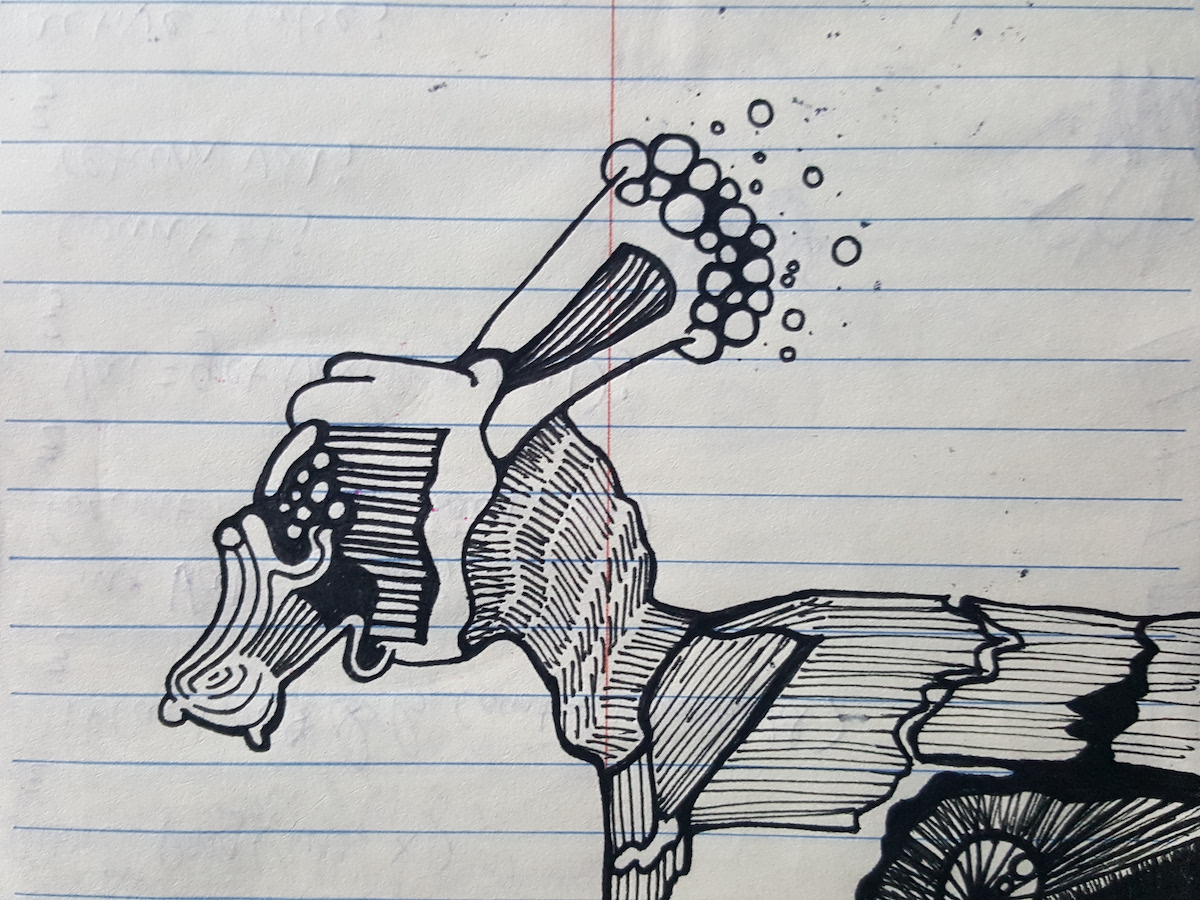
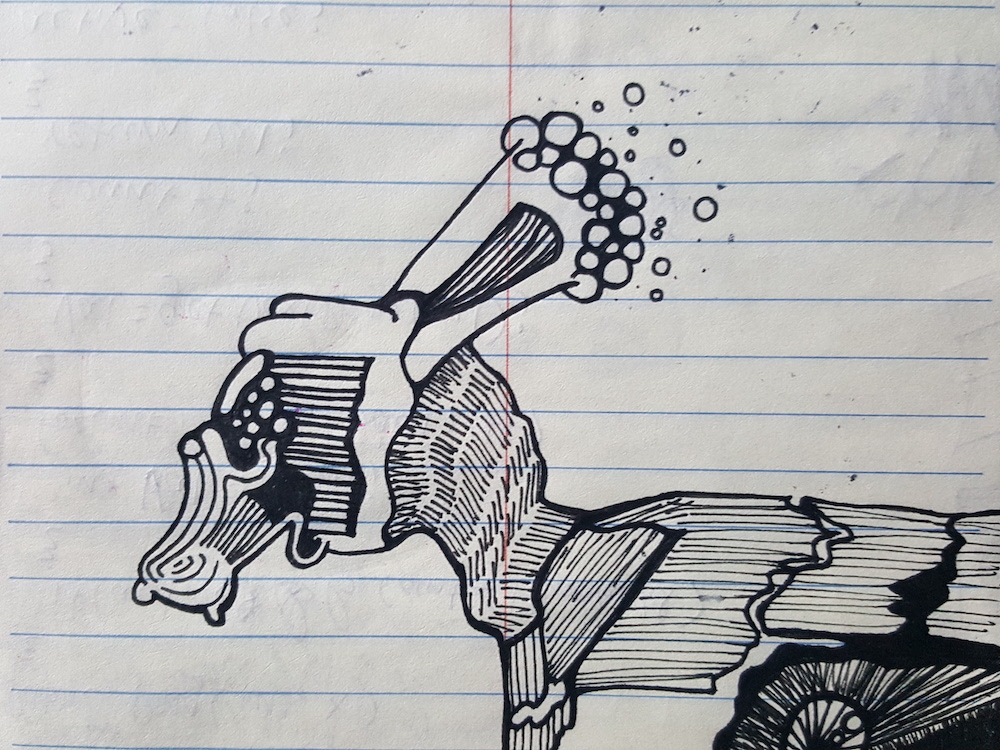
resized images for performance

diff --git a/src/data/ProjectData.js b/src/data/ProjectData.js
@@ -1,8 +1,10 @@
 //import Images
-import RecipeSearchEngine from '../img/project-img/recipe-search-engine.png';
-import StayStoked from '../img/project-img/stayStoked.jpg';
-import SmartPizza from '../img/project-img/smartPizza.jpg';
-import Waves from '../img/project-img/waves.png';
+import RecipeSearchEngine from '../img/project-img/recipe-search-engine.WebP';
+import StayStoked from '../img/project-img/stayStoked.WebP';
+import SmartPizza from '../img/project-img/smartpizza.WebP';
+import Waves from '../img/project-img/waves.WebP';
+//uuidv4
+import { v4 as uuidv4 } from 'uuid';
 
 function projectData() {
   return [
@@ -12,6 +14,11 @@ function projectData() {
       text:
         'Not sure to cook with what you have in your fridge? Look up an ingredient and see what you can make with it!',
       technologies: ['React.js', 'Edmame API', 'Sass'],
+      hasGithub: true,
+      github: 'https://github.com/NikStires/RecipeSearchEngine',
+      hasLink: false,
+      link: '',
+      id: uuidv4(),
     },
     {
       name: 'Stay Stoked',
@@ -19,6 +26,11 @@ function projectData() {
       text:
         'Keep the fire burning to ward away evil spirits in this game jam submission for Ludem Dare 46, created in 48 hours.',
       technologies: ['C#', 'Unity', 'Aesprite'],
+      hasGithub: true,
+      github: 'https://github.com/NikStires/StayStoked',
+      hasLink: false,
+      link: '',
+      id: uuidv4(),
     },
     {
       name: 'Smart Pizza menu website',
@@ -26,6 +38,11 @@ function projectData() {
       text:
         'Website created for local business where I worked closely with the owner of the resturant to achieve a design and function that suited their needs.',
       technologies: ['Html5', 'Sass', 'Javascript'],
+      hasGithub: false,
+      github: null,
+      hasLink: true,
+      link: 'https://www.smartpizzamenu.com/',
+      id: uuidv4(),
     },
     {
       name: 'Waves Music Player',
@@ -33,6 +50,11 @@ function projectData() {
       text:
         'A lightweight, responsive and scalable lofi-hiphop streaming website.',
       technologies: ['React.js', 'Sass'],
+      hasGithub: true,
+      github: 'https://github.com/NikStires/Waves',
+      hasLink: false,
+      link: '',
+      id: uuidv4(),
     },
   ];
 }

diff --git a/src/components/ArtGallery.js b/src/components/ArtGallery.js
@@ -1,21 +1,21 @@
 import React from 'react';
 import ArtPiece from './ArtPiece';
 //Images
-import Bridge from '../img/art/bridge.jpg';
-import Drawing1 from '../img/art/drawing1.jpg';
-import Drawing2 from '../img/art/drawing2.jpg';
-import Drawing3 from '../img/art/drawing3.jpg';
-import Drawing4 from '../img/art/drawing4.jpg';
-import Drawing5 from '../img/art/drawing5.jpg';
-import Drawing6 from '../img/art/drawing6.jpg';
-import Drawing7 from '../img/art/drawing7.jpg';
-import Drawing8 from '../img/art/drawing8.jpg';
-import Drawing9 from '../img/art/drawing9.jpg';
-import Drawing10 from '../img/art/drawing10.jpg';
-import Drawing11 from '../img/art/drawing11.jpg';
-import Drawing12 from '../img/art/drawing12.jpg';
-import Monkey from '../img/art/monkey.jpg';
-import Rainbow from '../img/art/rainbow.jpg';
+import Bridge from '../img/art/bridge.webp';
+import Drawing1 from '../img/art/drawing1.webp';
+import Drawing2 from '../img/art/drawing2.webp';
+import Drawing3 from '../img/art/drawing3.webp';
+import Drawing4 from '../img/art/drawing4.webp';
+import Drawing5 from '../img/art/drawing5.webp';
+import Drawing6 from '../img/art/drawing6.webp';
+import Drawing7 from '../img/art/drawing7.webp';
+import Drawing8 from '../img/art/drawing8.webp';
+import Drawing9 from '../img/art/drawing9.webp';
+import Drawing10 from '../img/art/drawing10.webp';
+import Drawing11 from '../img/art/drawing11.webp';
+import Drawing12 from '../img/art/drawing12.webp';
+import Monkey from '../img/art/monkey.webp';
+import Rainbow from '../img/art/rainbow.webp';
 
 const ArtGallery = () => {
   return (

diff --git a/src/components/ProjectRight.js b/src/components/ProjectRight.js
@@ -1,23 +1,53 @@
 import React from 'react';
+//icons
+import { FontAwesomeIcon } from '@fortawesome/react-fontawesome';
+import { faGithub } from '@fortawesome/free-brands-svg-icons';
+import { faExternalLinkAlt } from '@fortawesome/free-solid-svg-icons';
+//animation
 import AOS from 'aos';
 import 'aos/dist/aos.css';
 
-const ProjectRight = ({ name, image, text, technologies }) => {
+const ProjectRight = ({
+  name,
+  image,
+  text,
+  technologies,
+  hasGithub,
+  github,
+  hasLink,
+  link,
+}) => {
   AOS.init();
 
   return (
     <div data-aos='fade-left' className='project-container'>
       <div className='project-info'>
         <h1>{name}</h1>
-        <p>{text}</p>
+        <p>
+          {text}
+          {hasGithub ? (
+            <a href={github} target='_blank' rel='noreferrer'>
+              <FontAwesomeIcon href={link} icon={faGithub} color='#19d3da' />
+            </a>
+          ) : (
+            ''
+          )}
+          {hasLink ? (
+            <a href={link} target='_blank' rel='noreferrer'>
+              <FontAwesomeIcon icon={faExternalLinkAlt} color='#19d3da' />
+            </a>
+          ) : (
+            ''
+          )}
+        </p>
         <hr />
         <div className='tech'>
-          {technologies.map((technology) => (
-            <h3>{technology}</h3>
+          {technologies.map((technology, index) => (
+            <h3 key={index}>{technology}</h3>
           ))}
         </div>
       </div>
-      <img src={image} />
+      <img src={image} alt={name} />
     </div>
   );
 };

diff --git a/src/components/ProjectLeft.js b/src/components/ProjectLeft.js
@@ -1,20 +1,49 @@
 import React from 'react';
+//icons
+import { FontAwesomeIcon } from '@fortawesome/react-fontawesome';
+import { faGithub } from '@fortawesome/free-brands-svg-icons';
+import { faExternalLinkAlt } from '@fortawesome/free-solid-svg-icons';
+//animation
 import AOS from 'aos';
 import 'aos/dist/aos.css';
 
-const ProjectLeft = ({ name, image, text, technologies }) => {
+const ProjectLeft = ({
+  name,
+  image,
+  text,
+  technologies,
+  hasGithub,
+  github,
+  hasLink,
+  link,
+}) => {
   AOS.init();
-
   return (
     <div data-aos='fade-right' className='project-container'>
-      <img src={image} />
+      <img src={image} alt={name} />
       <div className='project-info'>
         <h1>{name}</h1>
-        <p>{text}</p>
+        <p>
+          {text}
+          {hasGithub ? (
+            <a href={github} target='_blank' rel='noreferrer'>
+              <FontAwesomeIcon href={link} icon={faGithub} color='#19d3da' />
+            </a>
+          ) : (
+            ''
+          )}
+          {hasLink ? (
+            <a href={link} target='_blank' rel='noreferrer'>
+              <FontAwesomeIcon icon={faExternalLinkAlt} color='#19d3da' />
+            </a>
+          ) : (
+            ''
+          )}
+        </p>
         <hr />
         <div className='tech'>
-          {technologies.map((technology) => (
-            <h3>{technology}</h3>
+          {technologies.map((technology, index) => (
+            <h3 key={index}>{technology}</h3>
           ))}
         </div>
       </div>

diff --git a/src/components/Projects.js b/src/components/Projects.js
@@ -7,7 +7,7 @@ import projectData from '../data/ProjectData';
 
 const Projects = () => {
   //State
-  const [projects, setProjects] = useState(projectData());
+  const [projects] = useState(projectData());
 
   return (
     <div id='projects' className='projects'>
@@ -20,6 +20,12 @@ const Projects = () => {
               image={project.image}
               text={project.text}
               technologies={project.technologies}
+              hasGithub={project.hasGithub}
+              github={project.github}
+              hasLink={project.hasLink}
+              link={project.link}
+              id={project.id}
+              key={project.id}
             />
           );
         } else {
@@ -29,6 +35,12 @@ const Projects = () => {
               image={project.image}
               text={project.text}
               technologies={project.technologies}
+              hasGithub={project.hasGithub}
+              github={project.github}
+              hasLink={project.hasLink}
+              link={project.link}
+              id={project.id}
+              key={project.id}
             />
           );
         }

diff --git a/src/components/About.js b/src/components/About.js
@@ -1,5 +1,6 @@
 import React from 'react';
-import headshot from '../img/head.jpeg';
+import headshot from '../img/head.webp';
+//animation
 import AOS from 'aos';
 import 'aos/dist/aos.css';
 
@@ -34,16 +35,14 @@ const About = () => {
             would like to work together.
           </p>
           <div className='contact-btn'>
-            <button>
-              <a
-                href='mailto:nik.stires@gmail.com'
-                title='Email'
-                target='_blank'
-                rel='noopener noreferrer'
-              >
-                Get In Touch
-              </a>
-            </button>
+            <a
+              href='mailto:nik.stires@gmail.com'
+              title='Email'
+              target='_blank'
+              rel='noopener noreferrer'
+            >
+              <button>Get In Touch</button>
+            </a>
           </div>
         </div>
         <img src={headshot} alt='Nik Stires' />

diff --git a/src/styles/_about.scss b/src/styles/_about.scss
@@ -37,7 +37,7 @@
       }
       .contact-btn {
         width: 100%;
-        padding-top: 10px;
+        padding: 10px;
         button {
           cursor: pointer;
           color: #19d3da;
@@ -48,16 +48,8 @@
           font-size: 1rem;
 
           &:hover {
-            background: #19d3da;
+            background: hsl(182, 79%, 48%);
             color: #373a40;
-          }
-
-          a {
-            text-decoration: none;
-            color: #19d3da;
-            &:visited {
-              color: #19d3da;
-            }
           }
         }
       }

diff --git a/src/components/ArtPiece.js b/src/components/ArtPiece.js
@@ -1,13 +1,18 @@
 import React from 'react';
+//animation
 import AOS from 'aos';
 import 'aos/dist/aos.css';
+//lazyload
+import 'lazysizes';
+// import a plugin
+import 'lazysizes/plugins/parent-fit/ls.parent-fit';
 
 const ArtPiece = ({ image }) => {
   AOS.init();
   return (
     <div data-aos='zoom-in' className='artPiece'>
       <a target='_blank' href={image}>
-        <img src={image} alt='' />
+        <img data-src={image} className='lazyload' alt='' />
       </a>
     </div>
   );

diff --git a/src/components/Nav.js b/src/components/Nav.js
@@ -1,7 +1,9 @@
 import React, { useState } from 'react';
+//icons
 import { FontAwesomeIcon } from '@fortawesome/react-fontawesome';
 import { faCrow, faAngleDown } from '@fortawesome/free-solid-svg-icons';
 import resume from './resume.pdf';
+//animation
 import AOS from 'aos';
 import 'aos/dist/aos.css';
 

diff --git a/src/styles/_project.scss b/src/styles/_project.scss
@@ -30,6 +30,10 @@
     p {
       font-size: 1.5rem;
       color: #eeeeee;
+
+      a {
+        padding: 5px;
+      }
     }
 
     hr {

diff --git a/src/styles/app.scss b/src/styles/app.scss
@@ -3,6 +3,7 @@
   margin: 0;
   box-sizing: border-box;
   font-family: 'Raleway', sans-serif;
+  font-display: swap;
 }
 
 body {
